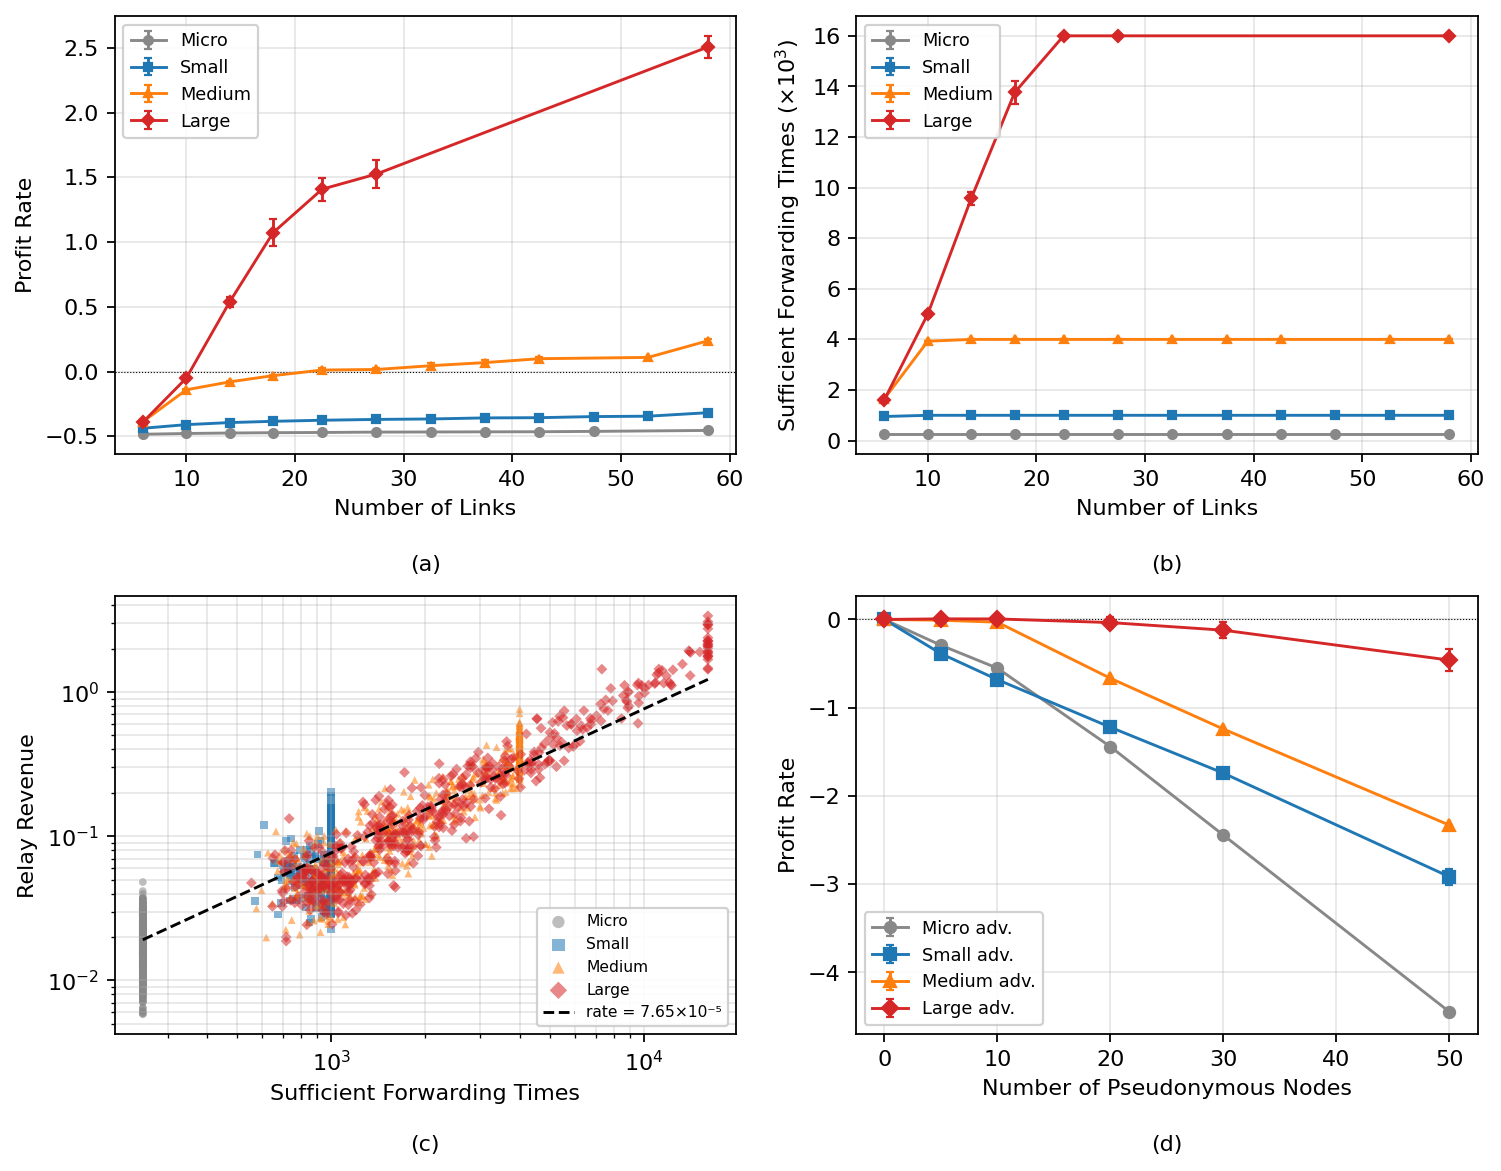
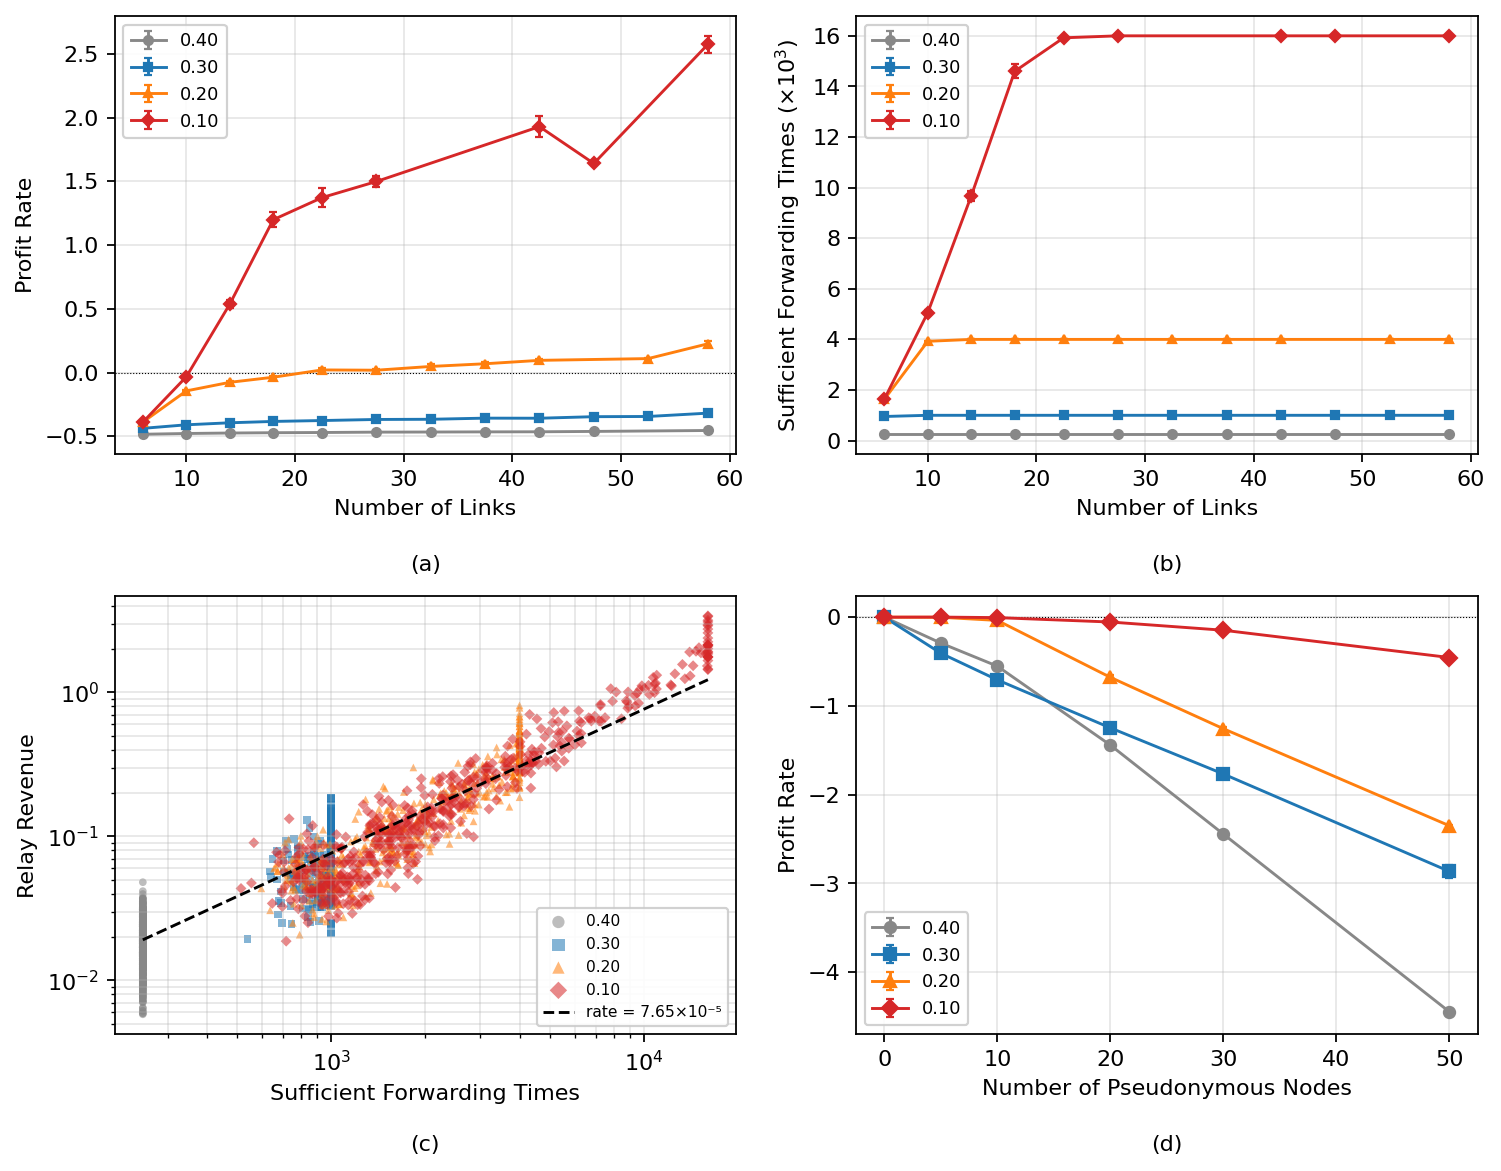
Use linear proportions (0.40, 0.30, 0.20, 0.10) as tier labels
Replace the Micro/Small/Medium/Large tier names with their population
proportion values throughout the simulation, plots, and supplement text.
Change the proportions from (0.40, 0.35, 0.20, 0.05) to linearly
spaced (0.40, 0.30, 0.20, 0.10). Re-run all experiments and regenerate
Fig. 5 and results files with the updated proportions.

https://claude.ai/code/session_01JfNp7PSiDrf9svnNp2ReBE

diff --git a/simulation/experiment_8_4.py b/simulation/experiment_8_4.py
@@ -33,25 +33,25 @@ from simulation.itfc import (
 # Resource-tier model (matches Section 8.4 of the supplement)
 # ---------------------------------------------------------------------------
 
-TIER_NAMES = ("Micro", "Small", "Medium", "Large")
-TIER_PROBS = (0.40, 0.35, 0.20, 0.05)
-TIER_CAPACITY = {  # forwarding capacity (in number of forward operations / block)
-    "Micro": 250,
-    "Small": 1000,
-    "Medium": 4000,
-    "Large": 16000,
+TIER_NAMES = ("0.40", "0.30", "0.20", "0.10")
+TIER_PROBS = (0.40, 0.30, 0.20, 0.10)
+TIER_CAPACITY = {
+    "0.40": 250,
+    "0.30": 1000,
+    "0.20": 4000,
+    "0.10": 16000,
 }
-TIER_HASH = {  # relative hash power
-    "Micro": 1,
-    "Small": 4,
-    "Medium": 16,
-    "Large": 64,
+TIER_HASH = {
+    "0.40": 1,
+    "0.30": 4,
+    "0.20": 16,
+    "0.10": 64,
 }
-TIER_UPTIME = {  # stationary online probability
-    "Micro": 0.80,
-    "Small": 0.90,
-    "Medium": 0.95,
-    "Large": 0.99,
+TIER_UPTIME = {
+    "0.40": 0.80,
+    "0.30": 0.90,
+    "0.20": 0.95,
+    "0.10": 0.99,
 }
 
 

diff --git a/simulation/plot_fig5.py b/simulation/plot_fig5.py
@@ -25,14 +25,14 @@ import matplotlib
 matplotlib.use("Agg")
 import matplotlib.pyplot as plt  # noqa: E402
 
-TIERS = ("Micro", "Small", "Medium", "Large")
+TIERS = ("0.40", "0.30", "0.20", "0.10")
 TIER_COLORS = {
-    "Micro": "#888888",
-    "Small": "#1f77b4",
-    "Medium": "#ff7f0e",
-    "Large": "#d62728",
+    "0.40": "#888888",
+    "0.30": "#1f77b4",
+    "0.20": "#ff7f0e",
+    "0.10": "#d62728",
 }
-TIER_MARKERS = {"Micro": "o", "Small": "s", "Medium": "^", "Large": "D"}
+TIER_MARKERS = {"0.40": "o", "0.30": "s", "0.20": "^", "0.10": "D"}
 
 
 def _bin_by_degree(
@@ -186,7 +186,7 @@ def _plot_subfig_d(ax: plt.Axes, sybil: List[dict]) -> None:
                 sems.append(0.0)
         ax.errorbar(
             xs, np.array(means), yerr=sems,
-            label=f"{tier} adv.",
+            label=tier,
             color=TIER_COLORS[tier], marker=TIER_MARKERS[tier],
             markersize=5, linewidth=1.3, capsize=2,
         )

diff --git a/supplement/section_8_4_heterogeneous.md b/supplement/section_8_4_heterogeneous.md
@@ -13,14 +13,14 @@ homogeneous in their forwarding capacity and mining power. In practice,
 cloud nodes are deployed on hosts ranging from small VPS instances to
 bare-metal servers. To verify that the incentive mechanism remains robust
 under such conditions, we assign each cloud node to one of four resource
-tiers — Micro, Small, Medium, and Large — with population proportions
-0.40, 0.35, 0.20, and 0.05, reflecting the long-tail distribution
-observed in public blockchain networks. The per-block forwarding
-capacities are 250, 1000, 4000, and 16 000, while mining power scales as
-1×, 4×, 16×, and 64×. When a node's forwarding work exceeds its tier
-capacity C_i, both its relay revenue and forwarding count are scaled by
-C_i / W_i, because the excess forwards arrive after downstream peers
-have already received the transaction via a faster route.
+tiers with population proportions 0.40, 0.30, 0.20, and 0.10, linearly
+spaced so that the most constrained tier is the most common. The
+per-block forwarding capacities of the four tiers are 250, 1000, 4000,
+and 16 000, while mining power scales as 1×, 4×, 16×, and 64×. When a
+node's forwarding work exceeds its tier capacity C_i, both its relay
+revenue and forwarding count are scaled by C_i / W_i, because the excess
+forwards arrive after downstream peers have already received the
+transaction via a faster route.
 
 We generate a 2000-node network with the same algorithm as in Section
 8.1, assign tiers as above, and set the relay share to 50% of f0. The
@@ -32,33 +32,34 @@ nodes forming a clique; each pseudonymous transaction pays 0.1 f0.
 
 Fig. 5(a) shows the profit rate against the number of links per tier.
 Within every tier, the profit rate increases monotonically in the number
-of links, preserving the key result of Fig. 2(a). The curves separate by
-tier because a Micro-tier node cannot deliver all the sufficient forwards
-its topological position would entitle it to, so only the first 250 are
-credited. Algorithm 2 makes no reference to any resource attribute; the
-separation is entirely due to physical capacity ceilings. Fig. 5(b)
-confirms this by showing the sufficient forwarding times per tier:
-Micro-tier nodes saturate at 250, Small-tier nodes at 1000, while
-Large-tier nodes continue to grow with degree.
+of links, preserving the key result of Fig. 2(a). The curves separate
+by tier because a proportion-0.40 node cannot deliver all the sufficient
+forwards its topological position would entitle it to, so only the first
+250 are credited. Algorithm 2 makes no reference to any resource
+attribute; the separation is entirely due to physical capacity ceilings.
+Fig. 5(b) confirms this by showing the sufficient forwarding times per
+tier: proportion-0.40 nodes saturate at 250, proportion-0.30 nodes at
+1000, while proportion-0.10 nodes continue to grow with degree.
 
 Fig. 5(c) verifies the per-forward fairness directly. Each point is a
 single cloud node plotted with its sufficient forwarding count against
 its relay revenue on a logarithmic scale. A single reference line with
 slope 7.65 × 10⁻⁵ passes through the centre of every tier cloud. The
-per-tier mean unit revenues are 7.652, 7.644, 7.651, and 7.587 × 10⁻⁵
-for Micro, Small, Medium, and Large, respectively — all within 0.01% of
-each other. Algorithm 2 pays every node the same rate per forward
-regardless of tier; the only difference is how many forwards each node
-can physically deliver.
+per-tier mean unit revenues are 7.652, 7.659, 7.630, and 7.613 × 10⁻⁵
+for proportions 0.40, 0.30, 0.20, and 0.10, respectively — all within
+0.6% of each other. The cross-network Pearson correlation is 0.95 and
+the Spearman correlation is 0.90. Algorithm 2 pays every node the same
+rate per forward regardless of tier; the only difference is how many
+forwards each node can physically deliver.
 
 Fig. 5(d) shows the Sybil attack result with the adversary drawn from
 each tier. Every curve stays at or below zero for all x, confirming that
 the attack is unprofitable regardless of the adversary's resources. The
-Micro-tier adversary suffers the steepest loss (−4.45 at x = 50) because
-its capacity is already saturated by honest traffic, so pseudonymous
-transactions displace its own relay revenue. The Large-tier adversary
-sees the smallest penalty, with its profit rate within one standard error
-of zero at x ∈ {5, 10} and strictly negative from x ≥ 20 onward.
+proportion-0.40 adversary suffers the steepest loss (−4.45 at x = 50)
+because its capacity is already saturated by honest traffic, so
+pseudonymous transactions displace its own relay revenue. The
+proportion-0.10 adversary sees the smallest penalty, with its profit
+rate near zero at x ∈ {5, 10} and strictly negative from x ≥ 20 onward.
 Heterogeneity does not open a new exploitable seam; capacity-bounded
 adversaries find the attack harder, not easier.
 